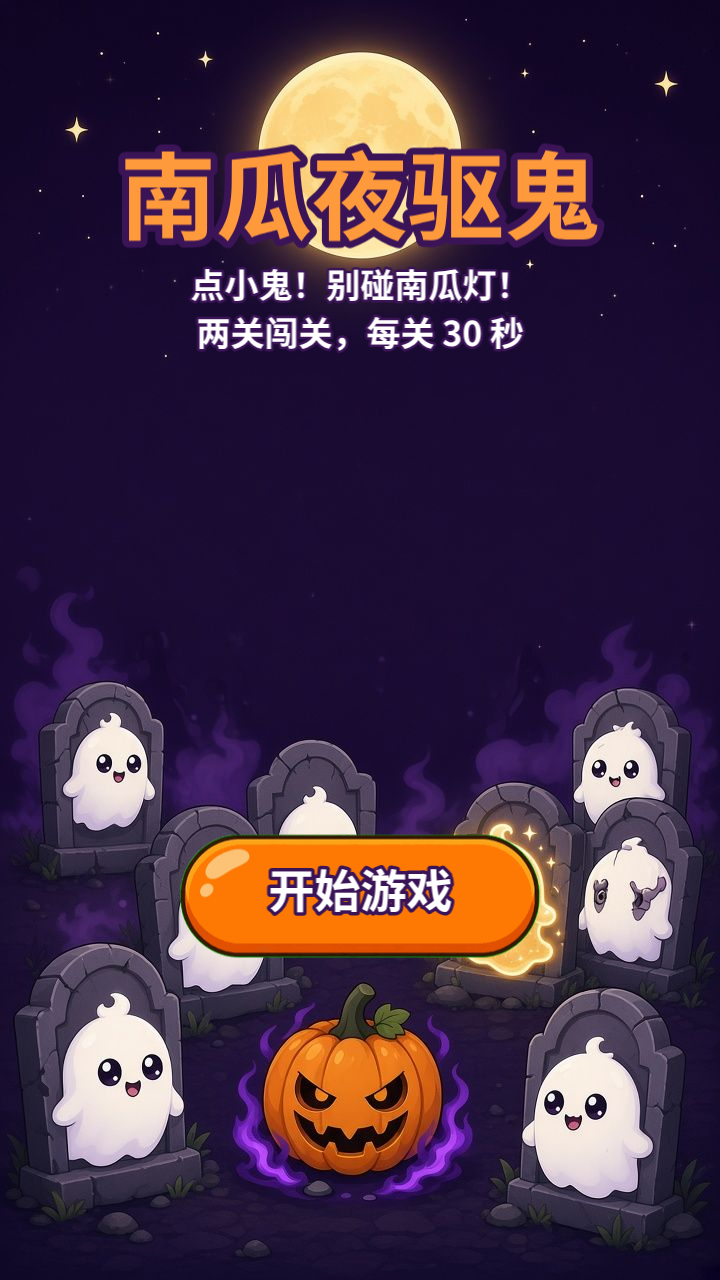
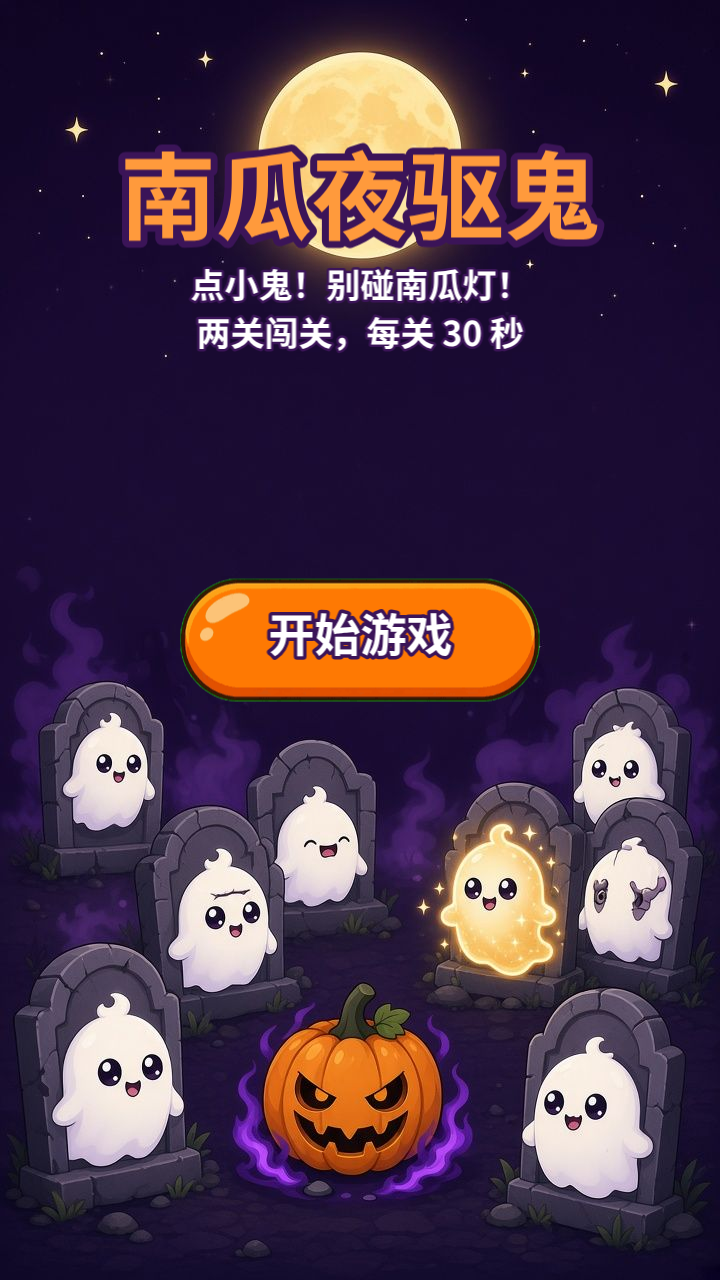
Start page: move button to 50% height to clear gold ghost

Changed region(s): [[0.2444, 0.4375, 0.7639, 0.5625], [0.2444, 0.625, 0.7639, 0.75]]

diff --git a/src/scenes.js b/src/scenes.js
@@ -20,7 +20,7 @@ export class StartScene extends Phaser.Scene {
     this.add.image(360, 640, 'bgStart').setDisplaySize(GAME.width, GAME.height);
     T(this, 360, 200, SKIN.title, 96, SKIN.titleColor);
     T(this, 360, 310, SKIN.subtitle + '\n两关闯关，每关 30 秒', 34);
-    button(this, 360, Math.round(GAME.height * 0.7), '开始游戏', () => this.scene.start('Play', { level: 0, total: 0, bestCombo: 0 }));
+    button(this, 360, Math.round(GAME.height * 0.5), '开始游戏', () => this.scene.start('Play', { level: 0, total: 0, bestCombo: 0 }));
   }
 }
 export class PlayScene extends Phaser.Scene {
